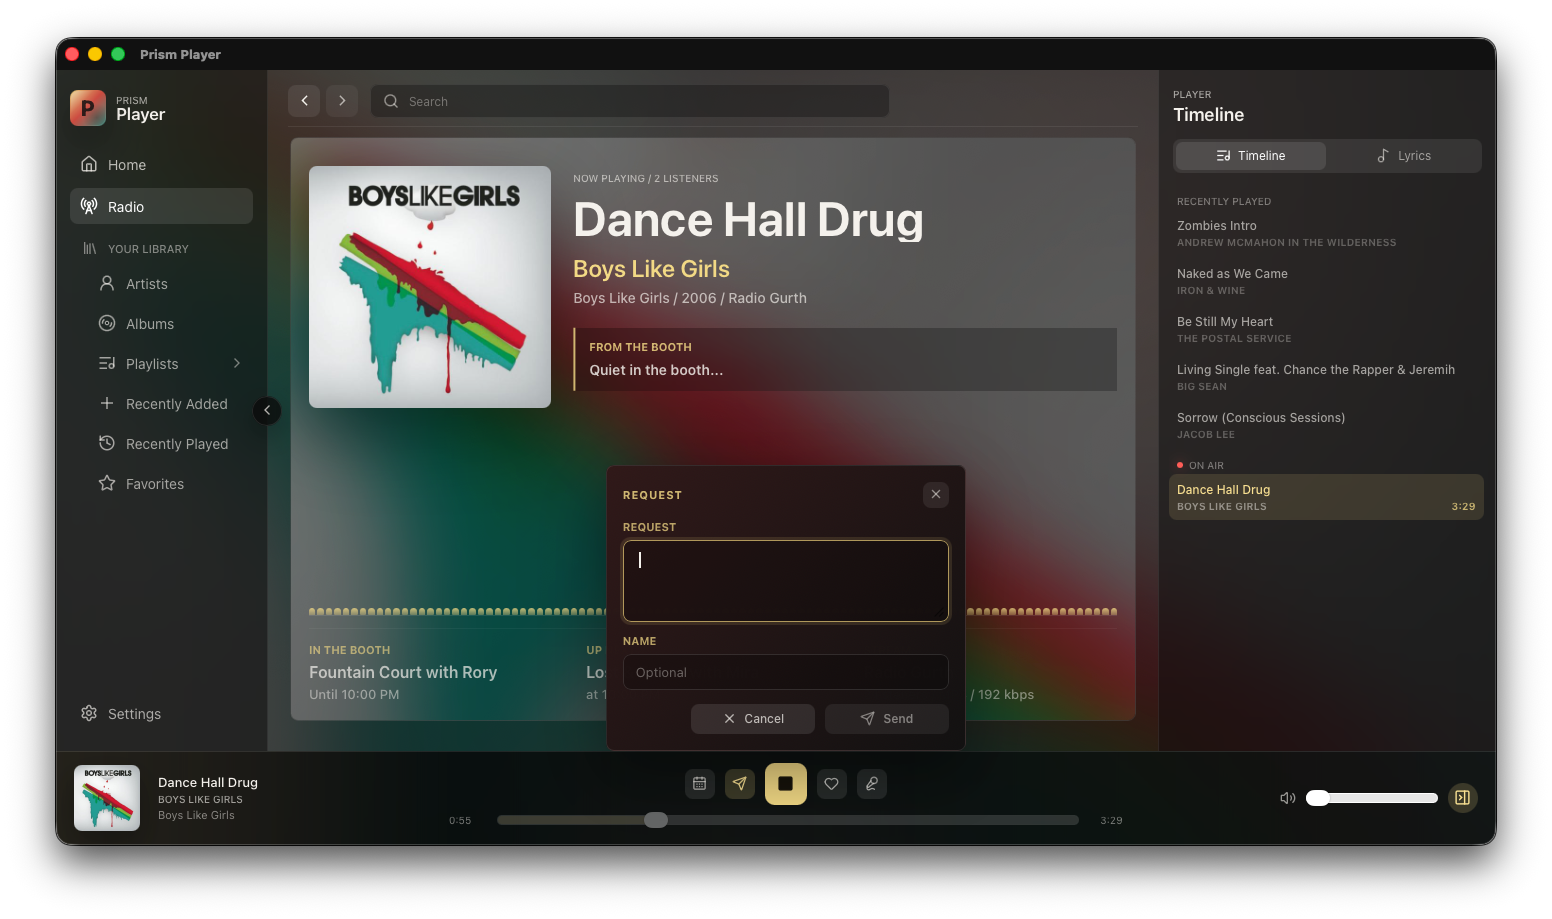
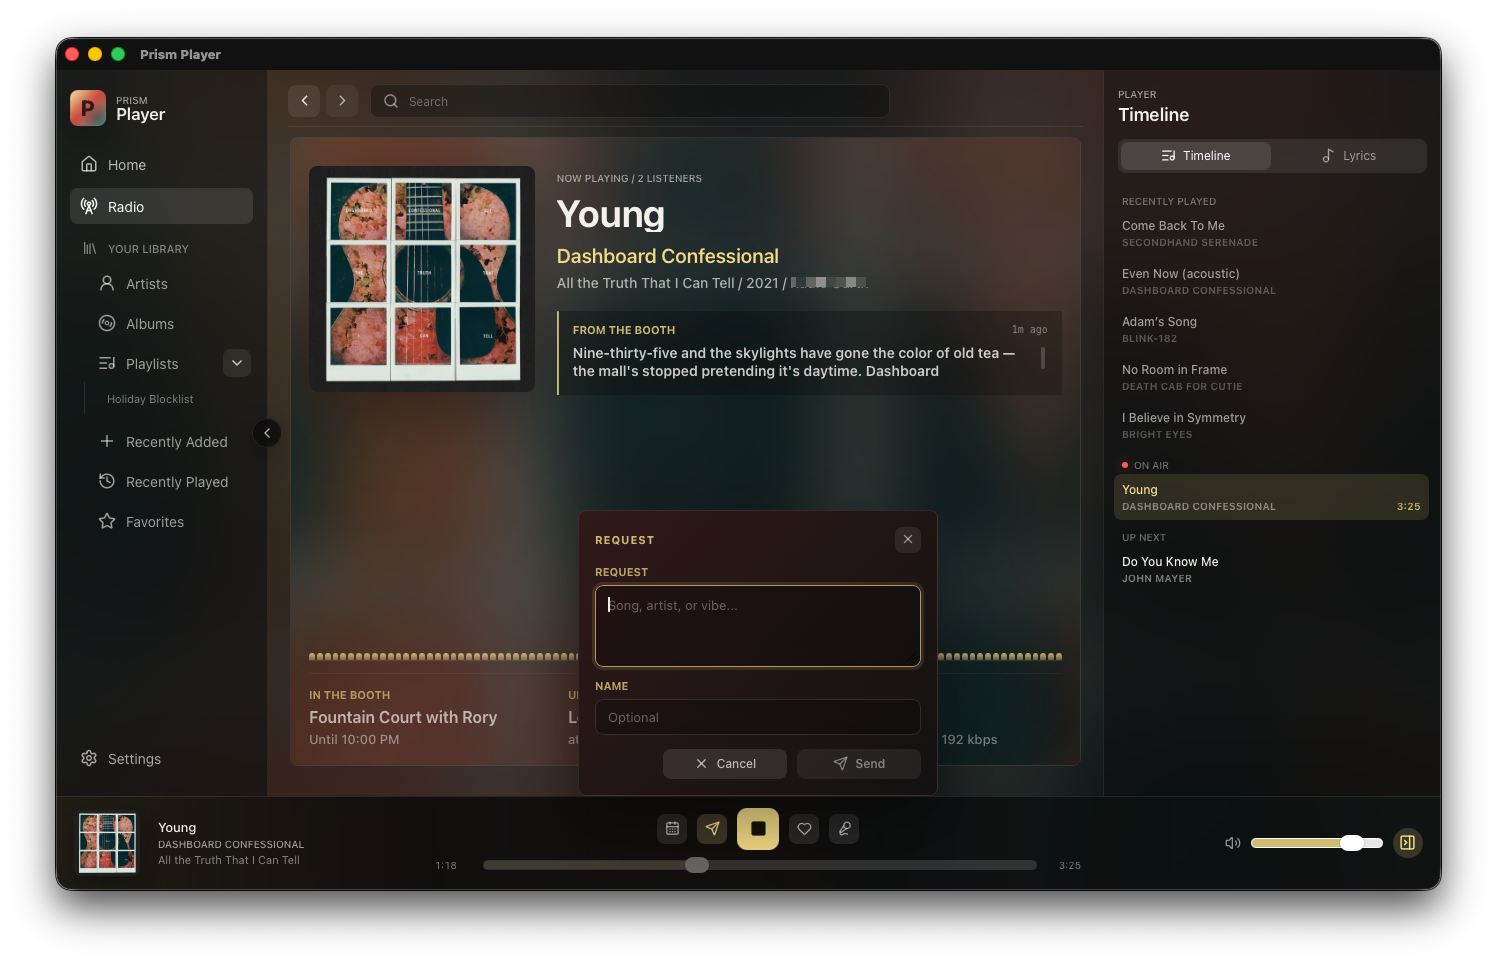
docs: refresh README screenshots

diff --git a/README.md b/README.md
@@ -4,8 +4,6 @@ Prism Player is a desktop music player for Navidrome and other Subsonic-compatib
 
 It is still early, but there are desktop builds for macOS and Windows.
 
-![Prism Player home screen](docs/images/home.png)
-
 ## Get Prism
 
 Grab the installer for your platform from the [latest GitHub release](https://github.com/kylejschultz/prism-player/releases/latest). Only use builds from Prism's GitHub releases.
@@ -27,7 +25,7 @@ Only bypass these warnings if you downloaded Prism from the releases page above.
 2. Enter the address of your Navidrome or other Subsonic-compatible server.
 3. Sign in, then listen to your library.
 
-![Connected Navidrome server in Prism](docs/images/server-connection.png)
+![Prism's first-run Navidrome connection screen](docs/images/navidrome-first-run.png)
 
 ## Listen to Subwave Radio
 
@@ -40,13 +38,13 @@ Prism can tune into a Subwave station right alongside your library.
 
 Prism checks that the address is a Subwave station before connecting. You can save more than one station and switch between them later.
 
-![Subwave station setup](docs/images/subwave-stations.png)
-
-![Choosing a Subwave station to tune into](docs/images/subwave-tune-in.png)
-
 Once you're tuned in, Prism shows what's playing and gives you the radio controls without taking you away from the rest of your music.
 
-![Subwave radio and song request](docs/images/subwave-request.png)
+![Subwave radio in Prism](docs/images/subwave-radio.png)
+
+Use the request button when you want to send something to the station.
+
+![Subwave song request in Prism](docs/images/subwave-request.png)
 
 ## Status
 
@@ -65,10 +63,6 @@ Want to work on Prism? Development setup, branches, tests, and release notes are
 - Playlist editing and favorites.
 - Subwave radio with now-playing, schedules, requests, likes, and booth updates.
 - Queue, now-playing details, and lyrics in the sidebar.
-
-![Album view in Prism](docs/images/album.png)
-
-![Artist view in Prism](docs/images/artist.png)
 
 
 ## Privacy
